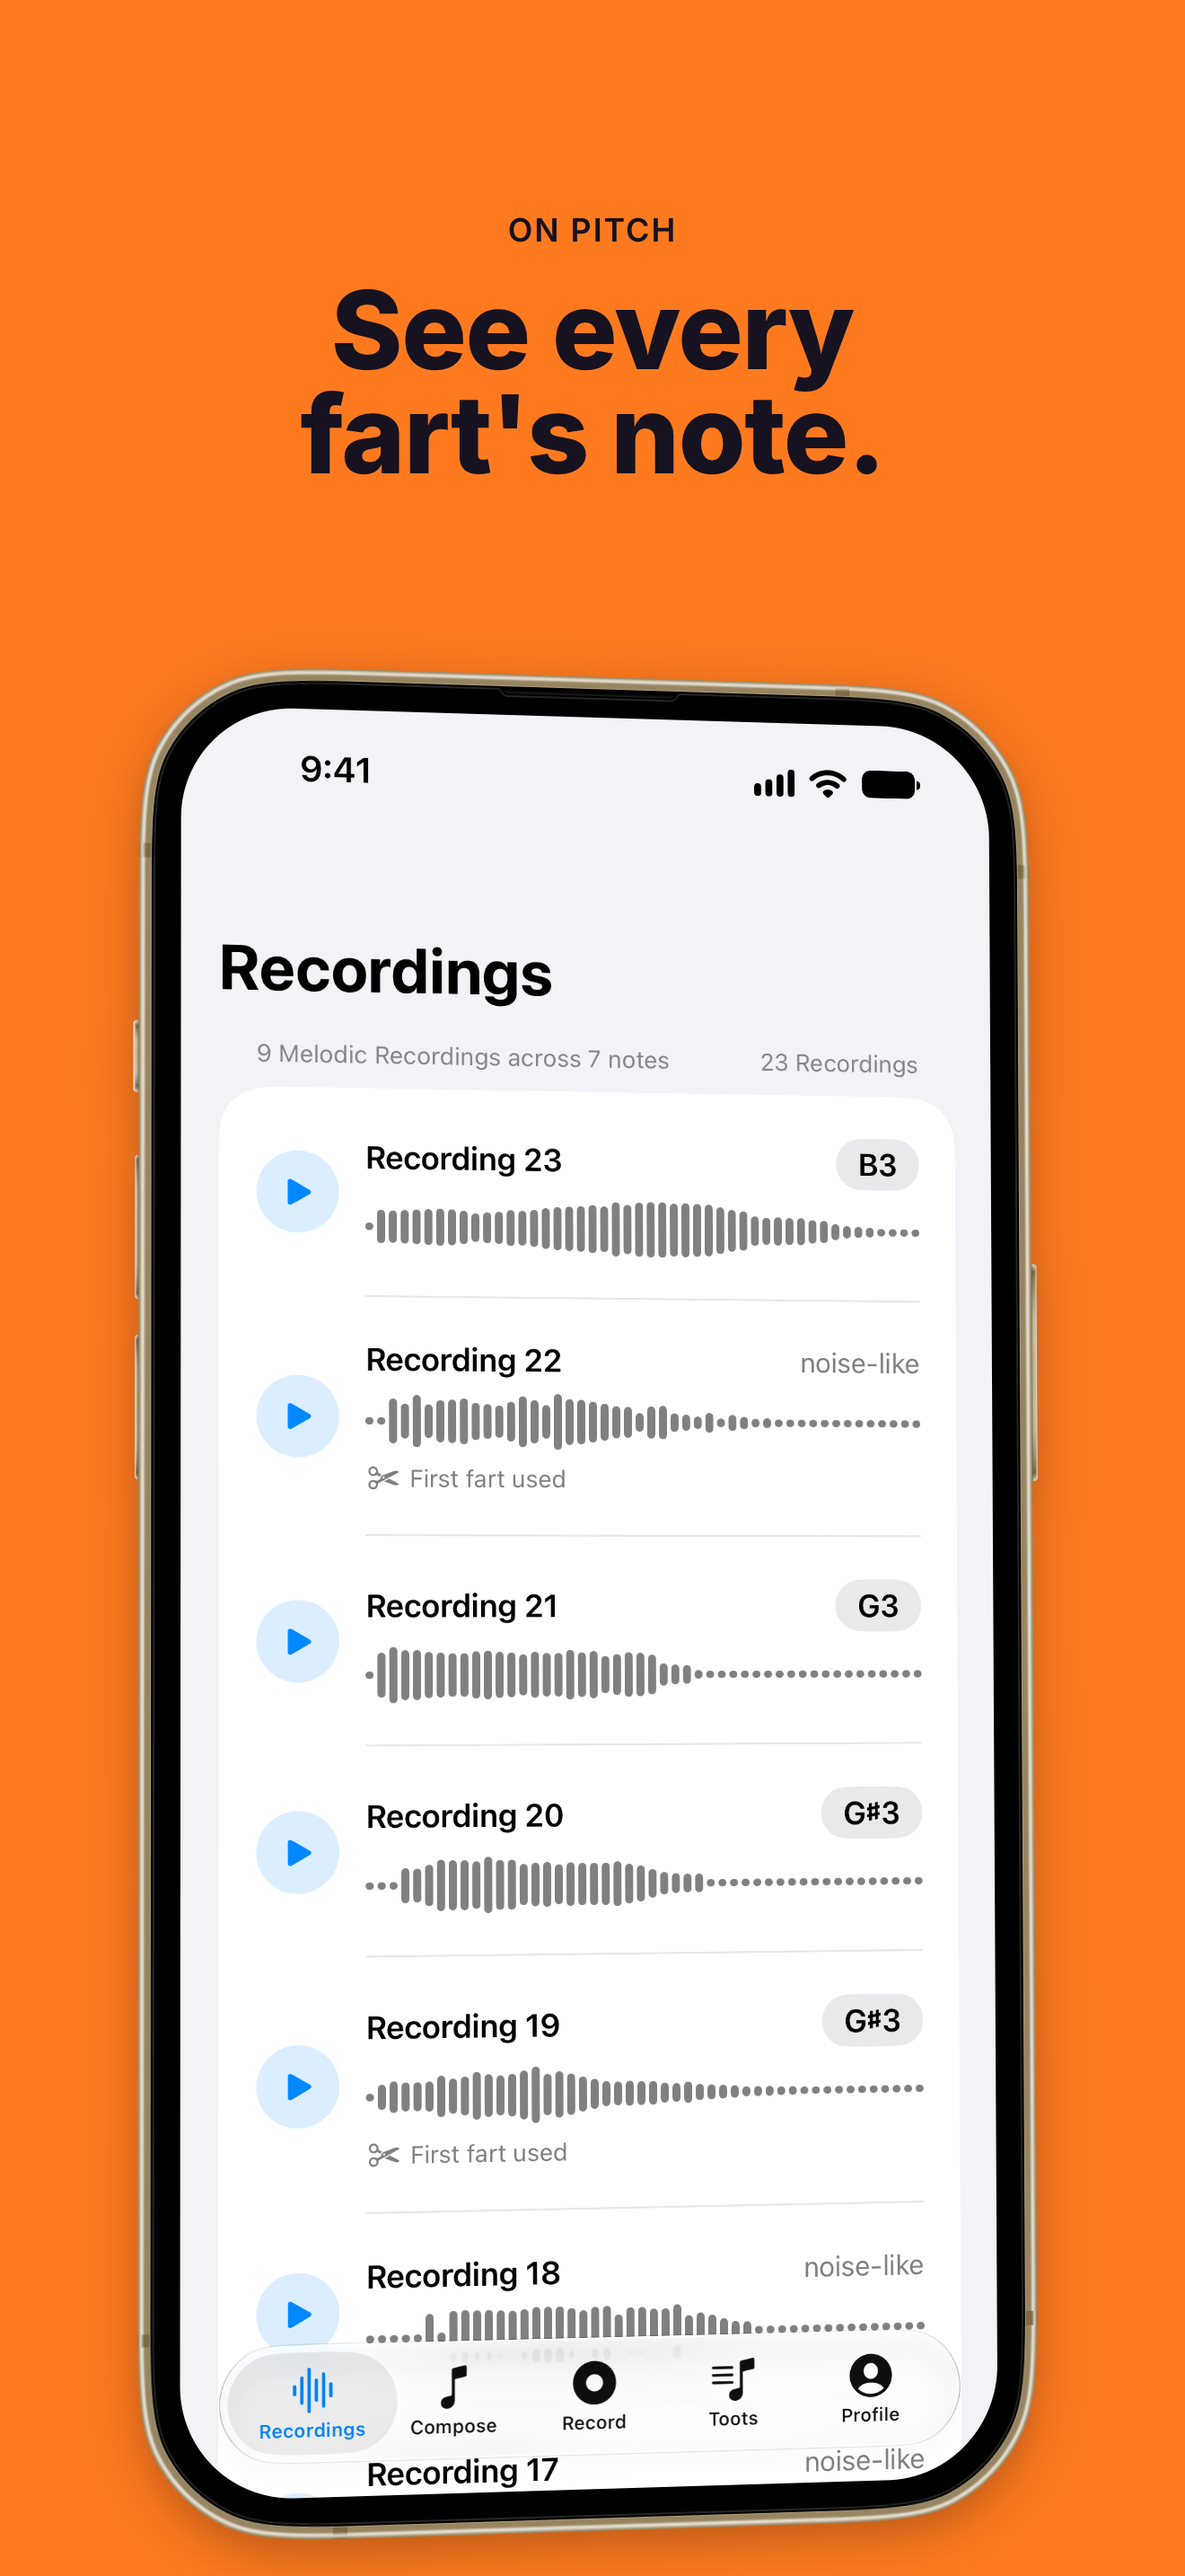
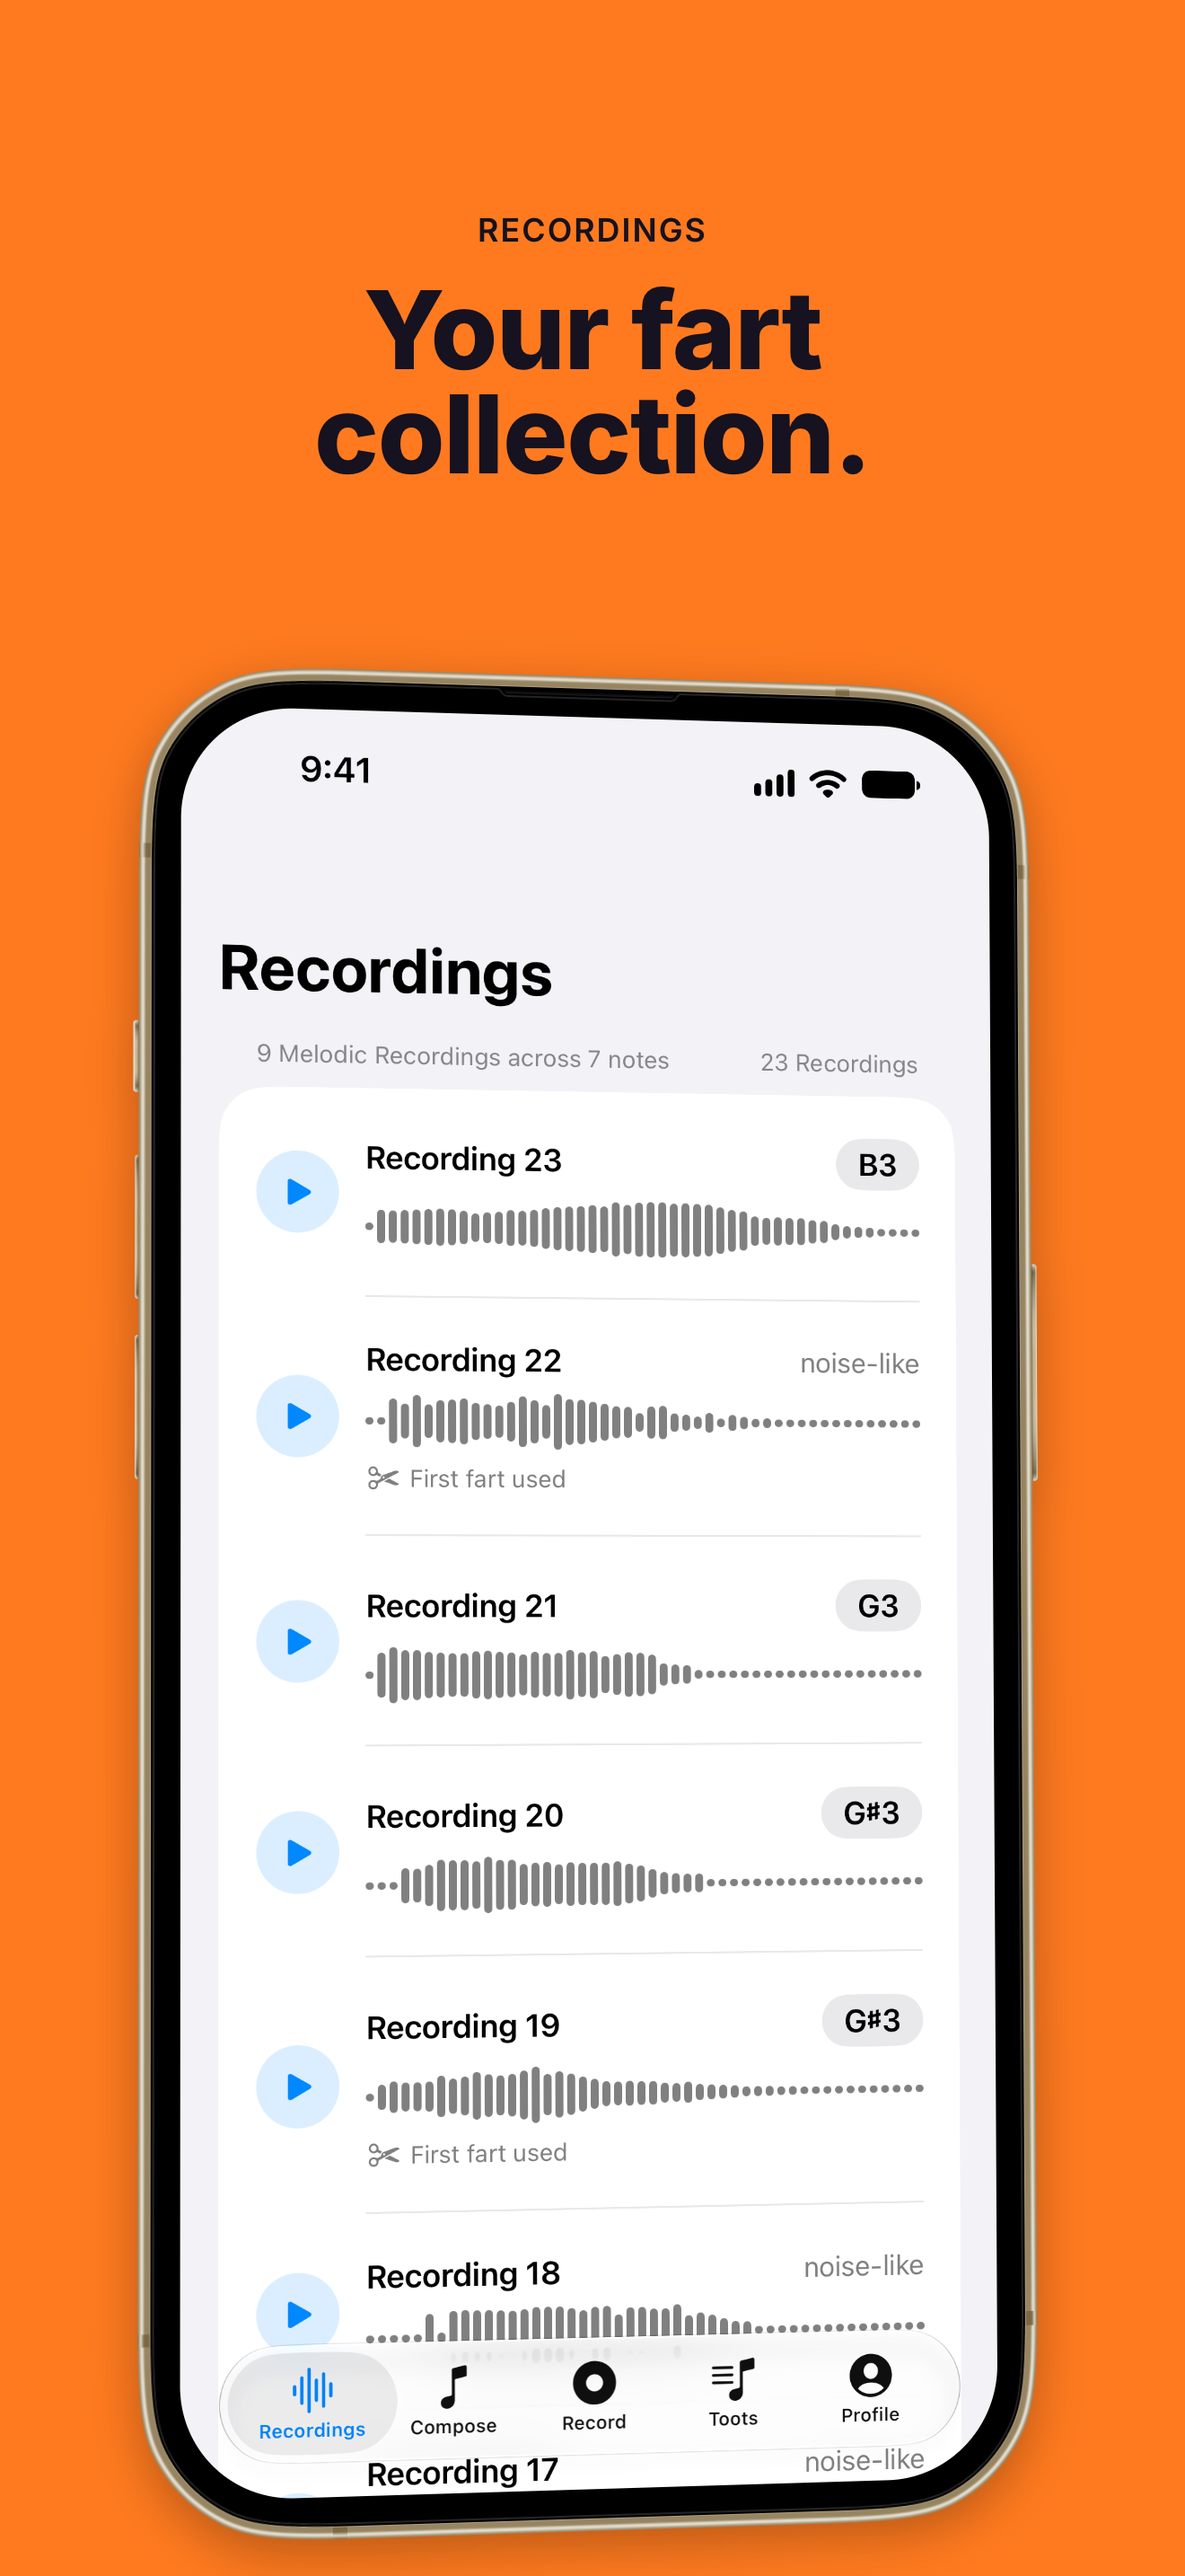
docs: fill the App Store drafts with the owner's answers and publish the privacy and support pages
Support email, copyright (2026 SERP), $0.99 price with the Paid Apps
Agreement, no EU storefronts at launch, 9+ and version 1.0.0, all from the
owner on #75. A new Pages workflow publishes privacy-policy.md and
support.md to serpcompany.github.io/pedos-app/. Promo slide 4 now reads
"Your fart collection."

Part of #75

Changed region(s): [[0.2485, 0.0621, 0.7455, 0.1862]]

diff --git a/docs/app-store/build-site.py b/docs/app-store/build-site.py
@@ -1,0 +1,51 @@
+#!/usr/bin/env python3
+"""Builds the public privacy and support pages from privacy-policy.md and support.md.
+
+Run by .github/workflows/pages.yml, which publishes the output to
+https://serpcompany.github.io/pedos-app/. Usage: build-site.py <output folder>
+"""
+import pathlib
+import sys
+
+import markdown
+
+HERE = pathlib.Path(__file__).parent
+PAGES = {"privacy": "privacy-policy.md", "support": "support.md"}
+TEMPLATE = """<!doctype html>
+<html lang="en">
+<head>
+<meta charset="utf-8">
+<meta name="viewport" content="width=device-width, initial-scale=1">
+<title>{title}</title>
+<style>
+  :root {{ color-scheme: light dark; }}
+  body {{ font: 17px/1.5 -apple-system, BlinkMacSystemFont, "Segoe UI", sans-serif;
+         max-width: 40rem; margin: 0 auto; padding: 2rem 1rem; }}
+  a {{ color: #0a84ff; }}
+</style>
+</head>
+<body>
+{body}
+</body>
+</html>
+"""
+
+
+def main() -> None:
+    out = pathlib.Path(sys.argv[1])
+    for slug, source in PAGES.items():
+        text = (HERE / source).read_text()
+        title = text.splitlines()[0].lstrip("# ").strip()
+        page = out / slug / "index.html"
+        page.parent.mkdir(parents=True, exist_ok=True)
+        page.write_text(TEMPLATE.format(title=title, body=markdown.markdown(text)))
+    (out / "index.html").write_text(
+        TEMPLATE.format(
+            title="Pedos",
+            body='<h1>Pedos</h1><p><a href="support/">Support</a> · <a href="privacy/">Privacy Policy</a></p>',
+        )
+    )
+
+
+if __name__ == "__main__":
+    main()

diff --git a/docs/app-store/metadata.md b/docs/app-store/metadata.md
@@ -23,7 +23,8 @@ Two options. The home-screen name stays **Pedos** either way (`CFBundleDisplayNa
 Either way, App Store Connect will refuse a name another app already uses; check that it's free
 when you create or rename the app record.
 
-**Owner decides:** which name, and the first App Store version number (see below).
+**Owner decided on #75:** the name and subtitle are already set in App Store Connect, and the first
+App Store version is **1.0.0**.
 
 ## Subtitle (30 characters max)
 
@@ -123,9 +124,10 @@ and "soundboard" (Pedos has no prank or soundboard feature), "tuner" (it isn't o
 App Store Connect doesn't offer "What's New" for an app's first version, so this text isn't used at
 launch. Keep it for the first update, and edit it to describe what changed.
 
-**Version number (owner decides).** The build's version is `MARKETING_VERSION: "0.1.0"` in
-`ios/project.yml`, which release-please manages, so the first App Store version won't be "1.0"
-unless someone bumps it. The owner picks the number before the first upload.
+**Version number: 1.0.0** (owner decision on #75). The build's version is `MARKETING_VERSION` in
+`ios/project.yml`, which release-please manages. A commit on `main` with the footer
+`Release-As: 1.0.0` makes its next release PR 1.0.0; merging that PR sets the version for the
+Release upload.
 
 ```text
 First release. Record your farts, find each one's note, and unlock songs played only by your farts.
@@ -144,16 +146,29 @@ for "songs" browses.
 ## Copyright
 
 ```text
-2026 <copyright holder>
+2026 SERP
 ```
 
 Apple's format is the year followed by the person or entity that owns the rights, with no URL
-(App Store Connect adds the ©). **Owner provides:** the legal name of the account holder (team
-W3GXL2NQQP).
+(App Store Connect adds the ©). Owner decision on #75: SERP.
 
 ## Price
 
-**Free**, with no in-app purchases. The Paid Apps agreement isn't needed.
+**$0.99** (US; App Store Connect sets the other storefronts from it), with no in-app purchases.
+A paid app needs the **Paid Apps Agreement** active in App Store Connect (Business), with
+banking and tax details. That's the owner's to do.
+
+## Availability
+
+Every storefront **except the EU** at launch (owner decision on #75). Selling in the EU needs a
+Digital Services Act trader status, which can be added later.
+
+## Support and privacy URLs
+
+- Support URL: https://serpcompany.github.io/pedos-app/support/
+- Privacy Policy URL: https://serpcompany.github.io/pedos-app/privacy/
+
+Both are built from `support.md` and `privacy-policy.md` by `.github/workflows/pages.yml`.
 
 ## Review notes for Apple
 

diff --git a/docs/app-store/app-privacy.md b/docs/app-store/app-privacy.md
@@ -79,7 +79,7 @@ the exact wording in App Store Connect may differ slightly.
 | Cartoon or fantasy violence / realistic violence / prolonged graphic violence / guns or other weapons | None | |
 | Simulated gambling / gambling / contests / loot boxes | None / No | Unlocking Songs is collecting notes, with no chance, purchases or prizes. |
 
-**Suggested rating: 9+**, weighing both parts of the answer (the humor is frequent, but mild), the result of "Infrequent or Mild" crude humor with everything else
+**Rating: 9+** (owner decision on #75: as young as honestly possible), weighing both parts of the answer (the humor is frequent, but mild), the result of "Infrequent or Mild" crude humor with everything else
 "None". The conservative alternative is "Frequent or Intense" (13+), if the owner would rather not
 argue that a fart app's humor is mild; it costs younger users, the audience most likely to enjoy
 the app.

diff --git a/docs/app-store/support.md b/docs/app-store/support.md
@@ -3,7 +3,7 @@
 Pedos records your farts, finds the note of each one, and plays songs with them, using only your
 recordings as sound.
 
-**Contact:** <support email>. Please include your iPhone model, iOS version and the Pedos version
+**Contact:** [devin@serp.co](mailto:devin@serp.co). Please include your iPhone model, iOS version and the Pedos version
 (Profile tab, under About).
 
 ## How it works
@@ -42,4 +42,4 @@ backups turned on. We never receive them, so we can't recover them. Deleting the
 Every song comes from a public-domain score in the PDMX dataset.
 
 **Does Pedos collect my data?**
-No. See the [privacy policy](<privacy policy URL>).
+No. See the [privacy policy](https://serpcompany.github.io/pedos-app/privacy/).

diff --git a/docs/app-store/README.md b/docs/app-store/README.md
@@ -25,8 +25,8 @@ These drafts describe the app as it must be at submission, not today's Release b
   `app-privacy.md`.
 - **The first App Store version number.** The build is `0.1.0` (managed by release-please); the
   owner picks the number to upload, and "What's New" isn't used for a first version.
-- **Placeholders to fill:** `<support email>`, `<privacy policy URL>` and `<date published>` in the
-  hosted pages, and `<copyright holder>` in `metadata.md`.
+- **Hosted pages:** `privacy-policy.md` and `support.md` are published to
+  https://serpcompany.github.io/pedos-app/ by `.github/workflows/pages.yml` on every change to `main`.
 
 ## Screenshots
 

diff --git a/docs/app-store/privacy-policy.md b/docs/app-store/privacy-policy.md
@@ -1,6 +1,6 @@
 # Pedos Privacy Policy
 
-_Last updated: <date published>_
+_Last updated: October 6, 2026_
 
 Pedos is an iPhone app that records your farts, finds the note of each one, and plays songs with
 them. This policy explains what happens to your data. The short version: **it stays on your
@@ -49,4 +49,4 @@ first.
 
 ## Contact
 
-Questions about privacy: <support email>
+Questions about privacy: [devin@serp.co](mailto:devin@serp.co)
